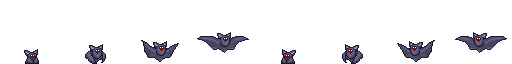
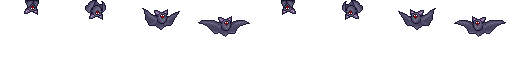
Bat progress 4

diff --git a/game/game/MyGame.cpp b/game/game/MyGame.cpp
@@ -14,6 +14,7 @@ CMyGame::CMyGame(void)	: player(CRectangle(100, 100, 200, 40), "CutScene.png", G
 	timerCut = 0;
 	vol = 1;
 	volMove = false;
+	playerBounce = false;
 }
 
 CMyGame::~CMyGame(void)
@@ -49,6 +50,7 @@ void CMyGame::OnUpdate()
 	for (CSprite* b : bats) {
 		b->Update(t);
 	}
+	if (player.GetHealth() == 0) GameOver();
 }
 
 void CMyGame::PlayerControl() {
@@ -59,6 +61,7 @@ void CMyGame::PlayerControl() {
 		// set walking left animation if not already set
 		if (!wL) {
 			playerAni.SetAnimation("walkL");
+			player.SetState(0);
 			wL = true;
 			wR = false;
 		}
@@ -69,6 +72,7 @@ void CMyGame::PlayerControl() {
 			if(!attack)player.SetXVelocity(-240);
 			if (!wL) {
 				playerAni.SetAnimation("runL");
+				player.SetState(1);
 			}
 		}
 	}
@@ -76,6 +80,7 @@ void CMyGame::PlayerControl() {
 		// set walking right animation if not already set
 		if (!wR) {
 			playerAni.SetAnimation("walkR");
+			player.SetState(0);
 			wR = true;
 			wL = false;
 		}
@@ -86,6 +91,7 @@ void CMyGame::PlayerControl() {
 			if (!attack)player.SetXVelocity(240);
 			if (!wR) {
 				playerAni.SetAnimation("runR");
+				player.SetState(1);
 			}
 		}
 	}
@@ -94,6 +100,7 @@ void CMyGame::PlayerControl() {
 		player.SetXVelocity(0);
 		if (wL || wR) {
 			playerAni.SetAnimation("idle");
+			player.SetState(0);
 			wL = false;
 			wR = false;
 		}
@@ -101,13 +108,15 @@ void CMyGame::PlayerControl() {
 
 
 
-	if ((IsKeyDown(SDLK_w) || IsKeyDown(SDLK_UP)) && jump) {
+	if ((IsKeyDown(SDLK_w) || IsKeyDown(SDLK_UP)) && (jump || playerBounce)) {
 
 		player.SetYVelocity(1000);
 		if (wR)playerAni.SetAnimation("jumpR", 6);
 		else playerAni.SetAnimation("jumpL", 6);
+		player.SetState(0);
 		jumpAir = true;
 		jump = false;
+		playerBounce = false;
 	}
 	if (player.GetYVelocity() > -200) {
 		player.Accelerate(0, -100);
@@ -135,17 +144,20 @@ void CMyGame::PlayerControl() {
 					jumpAir = false;
 					if (IsKeyDown(SDLK_a) || IsKeyDown(SDLK_LEFT)) {
 						playerAni.SetAnimation("walkL");
+						player.SetState(0);
 					}
 					else if (IsKeyDown(SDLK_d) || IsKeyDown(SDLK_RIGHT)) {
 						playerAni.SetAnimation("walkR");
+						player.SetState(0);
 					}
 					else {
 						playerAni.SetAnimation("idle");
+						player.SetState(0);
 					}
 					attack = false;
 				}
 			}
-			// not sure if this works yet as there is no jumping
+			// head bump
 			else if (p.m_y <= s->GetBottom() - h && player.GetXVelocity() > 0) {
 				player.SetY(s->GetBottom() - h);
 			}
@@ -593,6 +605,7 @@ void CMyGame::OnInitialize()
 	playerAni.SetAnimation("idle");
 	player.SetPos(400, 300);
 	playerAni.SetPos(player.GetPos());
+	player.SetHealth(1);
 
 	// Level design/gameplay. This is where you work Karl Marx
 	// if you look in the h file you will see we have pointer lists, if an object is solid it needs to also
@@ -735,7 +748,7 @@ void CMyGame::OnDisplayMenu()
 
 // chose not to use clone for bats not due to it not working but it being experimental
 CSprite* CMyGame::CreateBat() {
-	CSprite* b = new CSpriteBat(CRectangle(400, 300, 20, 20), GetTime(), &player);
+	CSprite* b = new CSpriteBat(CRectangle(400, 300, 20, 20), GetTime(), &player, &vol, &playerBounce);
 	b->LoadAnimation("BatIdle.png", "idle", CSprite::Sheet(4, 1).Row(0).From(0).To(4), CColor::Black());
 	b->LoadAnimation("BatTakeOff.png", "offR", CSprite::Sheet(8, 1).Row(0).From(0).To(3), CColor::Black());
 	b->LoadAnimation("BatTakeOff.png", "offL", CSprite::Sheet(8, 1).Row(0).From(4).To(7), CColor::Black());
@@ -805,6 +818,7 @@ void CMyGame::OnKeyDown(SDLKey sym, SDLMod mod, Uint16 unicode)
 	if (sym == SDLK_LEFT || sym == SDLK_a) {
 		if (!wL) {
 			playerAni.SetAnimation("walkL");
+			player.SetState(0);
 			wL = true;
 			wR = false;
 		}
@@ -813,6 +827,7 @@ void CMyGame::OnKeyDown(SDLKey sym, SDLMod mod, Uint16 unicode)
 	if (sym == SDLK_RIGHT || sym == SDLK_d) {
 		if (!wR) {
 			playerAni.SetAnimation("walkR");
+			player.SetState(0);
 			wR = true;
 			wL = false;
 		}
@@ -821,9 +836,11 @@ void CMyGame::OnKeyDown(SDLKey sym, SDLMod mod, Uint16 unicode)
 	if (sym == SDLK_LCTRL) {
 		if (wL && !wR) {
 			playerAni.SetAnimation("runL");
+			player.SetState(1);
 		}
 		else if (wR && !wL) {
 			playerAni.SetAnimation("runR");
+			player.SetState(1);
 		}
 	}
 }
@@ -834,21 +851,25 @@ void CMyGame::OnKeyUp(SDLKey sym, SDLMod mod, Uint16 unicode)
 	if (sym == SDLK_LEFT || sym == SDLK_a) {
 		if (wL) {
 			playerAni.SetAnimation("idle");
+			player.SetState(0);
 			wL = false;
 		}
 	}
 	if (sym == SDLK_RIGHT || sym == SDLK_d) {
 		if (wR) {
 			playerAni.SetAnimation("idle");
+			player.SetState(0);
 			wR = false;
 		}
 	}
 	if (sym == SDLK_LCTRL) {
 		if (wL && !wR) {
 			playerAni.SetAnimation("walkL");
+			player.SetState(0);
 		}
 		else if (wR && !wL) {
 			playerAni.SetAnimation("walkR");
+			player.SetState(0);
 		}
 	}
 }
@@ -914,10 +935,12 @@ void CMyGame::OnLButtonDown(Uint16 x,Uint16 y)
 	attack = true;
 	if (IsKeyDown(SDLK_a) || IsKeyDown(SDLK_LEFT)) {
 		playerAni.SetAnimation("attackL");
+		player.SetState(0);
 		player.SetXVelocity(0);
 	}
 	else {
 		playerAni.SetAnimation("attackR");
+		player.SetState(0);
 		player.SetXVelocity(0);
 	}
 
@@ -951,12 +974,15 @@ void CMyGame::OnLButtonUp(Uint16 x,Uint16 y)
 	if (IsPaused()) return;
 	if (IsKeyDown(SDLK_a) || IsKeyDown(SDLK_LEFT)) {
 		playerAni.SetAnimation("walkL");
+		player.SetState(0);
 	}
 	else if (IsKeyDown(SDLK_d) || IsKeyDown(SDLK_RIGHT)){
 		playerAni.SetAnimation("walkR");
+		player.SetState(0);
 	}
 	else {
 		playerAni.SetAnimation("idle");
+		player.SetState(0);
 	}
 }
 

diff --git a/game/game/CSpriteBat.cpp b/game/game/CSpriteBat.cpp
@@ -1,78 +1,118 @@
 #include "stdafx.h"
 #include "CSpriteBat.h"
 
-CSpriteBat::CSpriteBat(CRectangle r, Uint32 time, CSprite*p) : CSprite(r, time), s(SLEEP), headDirection(CVector(0, 1)), ani("NA"), aniChange(0), player(p) {}
+CSpriteBat::CSpriteBat(CRectangle r, Uint32 time, CSprite*p, float*v, bool* pB) 
+    : CSprite(r, time), s(SLEEP), headDirection(CVector(0, 1)), ani("NA"), aniChange(0), player(p), vol(v), playerBounce(pB) {}
 
-// checks if player collided with the bat
-bool CSpriteBat::BetterHitTest(CSprite& s) {
-    return s.HitTest(this);
+// what makes this better is it returns a char meaning I can get information on what sort of collision it is
+// good for allowing the player to hit the bat on the head to kill it (:
+// not using this functionality now but may need it later
+char CSpriteBat::BetterHitTest(CSprite& p) {
+    if (s == DEAD) return 'd';
+    if (p.HitTest(this)) {
+        //checks if the player has jumped over the bat
+        if (Dot(CVector(0, 1), this->BatDisplacement(&p).Normalise()) < 0) {
+            return 'k';
+        }
+        else {
+            return 'p';
+        }
+    }
+    return 'n';
+}
+
+// needed to do this a lot
+CVector CSpriteBat::BatDisplacement(CSprite* p) {
+    return (p->GetPos() - this->GetPos());
 }
 
 // checks if the bat can go to attack the player
 bool CSpriteBat::PlayerDetected(CSprite*p) {
-    CVector bP = this->GetPosition();
-    CVector pP = p->GetPosition();
-    return (pP - bP).Length() < 300;
+    return (this->BatDisplacement(p)).Length() < 300;
 }
 
-// pain
+// runs when the sprite gets updated
 void CSpriteBat::OnUpdate(Uint32 nGameTime, Uint32 deltaTime) {
+    static float pos = 0;
+    static bool hit = false;
+    char t = this->BetterHitTest(*player);
+    if (t == 'k' || hit == true) {
+        if (s != DEAD && s != DIE) {
+            *playerBounce = true;
+            KillBat();
+            player->SetY(pos);
+            hit = true;
+        }
+    }
+    else if (t == 'p') {
+        *playerBounce = false;
+        player->SetHealth(0);
+    }
     UpdateBat(player);
-    // only just relised OnUpdate actually has logic unlike OnDraw -_-
     CSprite::OnUpdate(nGameTime, deltaTime);
+    // offsets the player up when ontop of the bat
+    pos = player->GetY();
 }
 
 // updates the bat stuff
 void CSpriteBat::UpdateBat(CSprite* p) {
+    // if the player is being careless and wakes up a bat or is just too close
     if (s == SLEEP && PlayerDetected(p)) {
-        CVector bP = this->GetPosition();
-        CVector pP = p->GetPosition();
-        CVector d = (pP - bP).Normalise();
+        CVector d = (this->BatDisplacement(p)).Normalise();
         // left
         if (d.m_x < 0) {
             s = TAKEOFFL;
-            SetBatAnimation("offL", 5);
+            SetBatAnimation("offL", 16);
         }
         // right
         else {
             s = TAKEOFFR;
-            SetBatAnimation("offR", 5);
+            SetBatAnimation("offR", 16);
         }
     }
+    // takes off in the direction of the player
     if (s == TAKEOFFL) {
         aniChange++;
-        if (aniChange == 5) {
+        std::cout << aniChange << "\n";
+        if (aniChange == 15) {
             aniChange = 0;
             this->SetVelocity(-100, -100);
-            SetBatAnimation("flyL", 5);
+            SetBatAnimation("flyL", 8);
             s = FLYL;
         }
     }
     if (s == TAKEOFFR) {
         aniChange++;
-        if (aniChange == 5) {
+        if (aniChange == 30) {
             aniChange = 0;
             this->SetVelocity(100, -100);
-            SetBatAnimation("flyR", 5);
+            SetBatAnimation("flyR", 8);
             s = FLYR;
         }
     }
+    // ensures the bat is somewhat level with the players y level
     if ((s == FLYR || s == FLYL) && (this->GetYVelocity() == -100) && (p->GetY() >= this->GetY())) {
         this->SetYVelocity(0);
     }
+    // triggers while the bat dies
     if (s == DIE) {
         if (ani != "die") {
-            SetBatAnimation("die");
+            SetBatAnimation("die", 2);
+            this->SetXVelocity(0);
+            this->SetYVelocity(-200);
+            this->SetOmega(200);
         }
         else {
             aniChange++;
-            if (aniChange == 3) {
+            if (aniChange == 15) {
                 s = DEAD;
+                SetBatAnimation("die", 1, 1, 1);
             }
         }
     }
 }
 
+// sets the animation in a way where I can store the current animation name as well as get it
 void CSpriteBat::SetBatAnimation(char* pPropName, int fps, int nIndexStart, int numFrames) {
 	ani = pPropName;
 	SetAnimation(pPropName, fps, nIndexStart, numFrames);

diff --git a/game/game/CSpriteBat.h b/game/game/CSpriteBat.h
@@ -8,19 +8,24 @@ private:
     stateAni s;
     CVector headDirection;
     char* ani;
-    Uint8 aniChange;
-    // pointer to the player
+    Uint16 aniChange;
+    // pointer to the player, needed so it can kill and follow the player
     CSprite* player;
+    // keeps the volume consistent
+    float* vol;
+    bool* playerBounce;
+    // squeak squeak
+    CSoundPlayer batSounds;
 public:
-    CSpriteBat(CRectangle r, Uint32 time, CSprite*p);
-    bool BetterHitTest(CSprite& s);
+    CSpriteBat(CRectangle r, Uint32 time, CSprite*p, float* vol, bool* pB);
+    char BetterHitTest(CSprite& p);
     stateAni GetStateAni() const { return s; }
     void KillBat() { s = DIE; }
     bool PlayerDetected(CSprite*p);
     void UpdateBat(CSprite* p);
     void SetBatAnimation(char* pPropName, int fps = 10, int nIndexStart = 0, int numFrames = -1);
+    CVector BatDisplacement(CSprite*p);
 protected:
-    // this was a lot of trial and error, im not used to classes so like pain
     virtual void OnUpdate(Uint32 nGameTime, Uint32 deltaTime);
 };
 

diff --git a/game/game/MyGame.h b/game/game/MyGame.h
@@ -15,6 +15,7 @@ private:
 
 	bool playCutscene;
 	double timerCut;
+	bool playerBounce;
 
 	bool wL;
 	bool wR;
